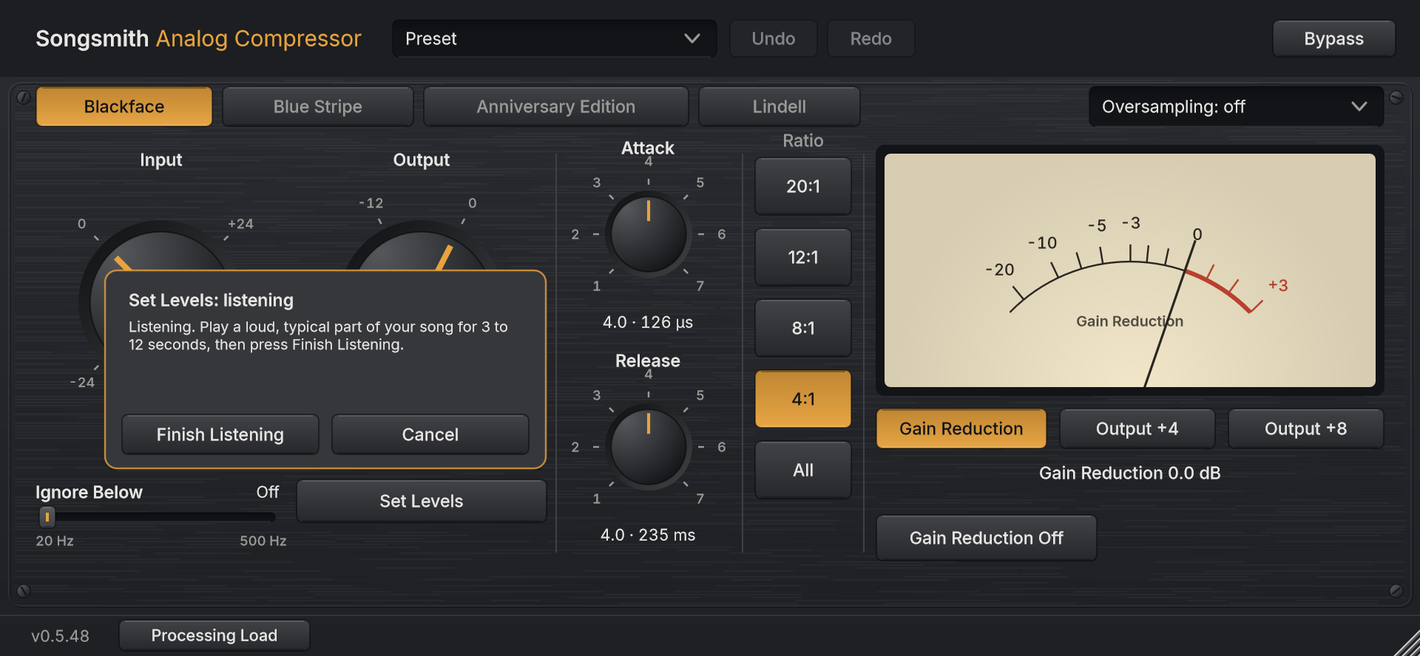
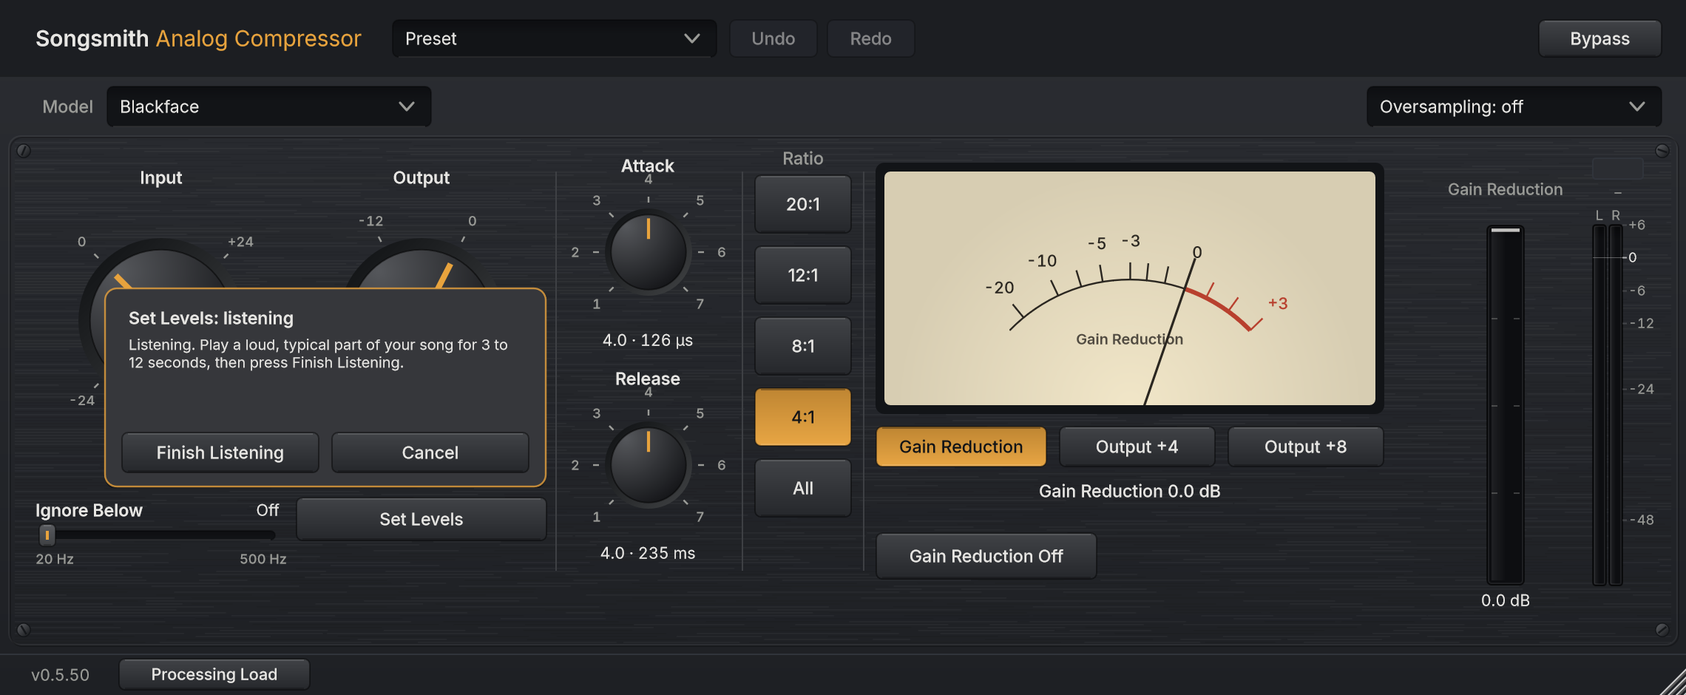
ACOMP-23: Model dropdown in a configuration row outside the panel; Slow Attack clear of the lower border (#325)

diff --git a/analog-compressor/Source/PluginEditor.cpp b/analog-compressor/Source/PluginEditor.cpp
@@ -35,7 +35,7 @@ namespace
     // Layout, in design units (FET::designWidth x FET::designHeight).
     // Input and Output are 216 high so Ignore Below fits under Input (ACOMP-19); the knobs keep their size,
     // because they were limited by the width, not the height.
-    // ACOMP-21: everything below the secondary row (model buttons and Oversampling) sits faceShift units lower.
+    // ACOMP-23: everything inside the panel (below the configuration row with the Model dropdown and Oversampling) sits faceShift units lower.
     constexpr int fs = FET::faceShift;
     const juce::Rectangle<int> inputArea   { 24, 64 + fs, 170, 216 };
     const juce::Rectangle<int> outputArea  { 200, 64 + fs, 170, 216 };
@@ -70,7 +70,7 @@ namespace
     // Built once; the same grain every time.
     struct Grain : Songsmith::UI::BrushedGrain
     {
-        Grain() : BrushedGrain (juce::Rectangle<float>::leftTopRightBottom (10.0f, (float) Songsmith::UI::titleBarHeight + 2.0f,
+        Grain() : BrushedGrain (juce::Rectangle<float>::leftTopRightBottom (10.0f, (float) FET::plateTop + 2.0f,
                                                                          (float) designWidth - 10.0f, (float) contentHeight - 6.0f)) {}
     };
 
@@ -318,17 +318,25 @@ SongsmithAnalogCompressorEditor::SongsmithAnalogCompressorEditor (SongsmithAnalo
     slowAttackButton.onClick = [this] { slowAttackAttachment.setValueAsCompleteGesture (slowAttackOn ? 0.0f : 1.0f); };
     content.addChildComponent (slowAttackButton);
 
-    // ACOMP-21: the four models are a row of buttons under the title bar (as in Songsmith EQ). The selected one is
-    // lit; the names are understated. Each button has its own tooltip, so no description is painted on the faceplate.
+    // ACOMP-23: the four models are one dropdown in the configuration row under the title bar (as Songsmith EQ's
+    // Zero Latency / Linear Phase), outside the textured panel. The tooltip describes all four, so no description is painted
+    // on the faceplate. The box follows modelAttachment (presets, automation, sessions); onChange is only the musician.
     for (int i = 0; i < numModels; ++i)
+        modelBox.addItem (modelNames()[i], i + 1);
+    modelBox.setTitle ("Model");
+    modelBox.onChange = [this]
     {
-        auto b = std::make_unique<juce::TextButton> (modelNames()[i]);
-        b->setTitle ("Model " + modelNames()[i]);
-        b->setColour (juce::TextButton::textColourOffId, Colours::textDim);
-        b->onClick = [this, i] { modelChosenByUser (i); };
-        content.addAndMakeVisible (*b);
-        modelButtons[(size_t) i] = std::move (b);
-    }
+        const int i = modelBox.getSelectedItemIndex();
+        if (i >= 0 && i != modelShown)
+            modelChosenByUser (i);
+    };
+    content.addAndMakeVisible (modelBox);
+    modelLabel.setText ("Model", juce::dontSendNotification);
+    modelLabel.setFont (juce::Font (font (Type::heading, Weight::Medium)));
+    modelLabel.setColour (juce::Label::textColourId, Colours::textDim);
+    modelLabel.setJustificationType (juce::Justification::centredRight);
+    modelLabel.setInterceptsMouseClicks (false, false);
+    content.addAndMakeVisible (modelLabel);
 
     allButton.setTooltip (allButtonTip);
     allButton.onClick = [this] { allButtonsAttachment.setValueAsCompleteGesture (allButtonsOn ? 0.0f : 1.0f); };
@@ -558,19 +566,13 @@ void SongsmithAnalogCompressorEditor::layoutContent()
     allButton.setBounds (col.removeFromTop (allHeight));
     col.removeFromTop (4);
     slowAttackButton.setBounds (slowAttackArea);
-    // ACOMP-21: the secondary row. Model buttons from the left; Oversampling (below) at the right.
-    {
-        int x = modelButtonX;
-        for (int i = 0; i < numModels; ++i)
-        {
-            modelButtons[(size_t) i]->setBounds (x, modeRowY, modelButtonWidths[i], modeRowHeight);
-            x += modelButtonWidths[i] + modelButtonGap;
-        }
-    }
+    // ACOMP-23: the configuration row. The Model dropdown from the left; Oversampling (below) at the right.
+    modelLabel.setBounds (modelLabelX, modeRowY, modelLabelWidth, modeRowHeight);
+    modelBox.setBounds (modelBoxX, modeRowY, modelBoxWidth, modeRowHeight);
     legacyRatioLabel.setBounds (ratioArea.getX(), ratioArea.getBottom() + 2, ratioArea.getWidth(), 18);   // only shown for a saved 2:1
 
     meter.setBounds (meterArea);
-    meterColumn.setBounds (Songsmith::UI::MeterColumn::boundsFor (designWidth, (int) Songsmith::UI::titleBarHeight + 8, contentHeight - 12, true));
+    meterColumn.setBounds (Songsmith::UI::MeterColumn::boundsFor (designWidth, FET::plateTop + 14, contentHeight - 26, true));
     auto modes = meterModes;
     const int gainReductionWidth = 116, modeGap = 8;
     meterButtons[0].setBounds (modes.removeFromLeft (gainReductionWidth));
@@ -622,8 +624,9 @@ void SongsmithAnalogCompressorEditor::paintContent (juce::Graphics& g)
         static const Grain grain;
         grain.draw (g);
 
-        const auto plate = juce::Rectangle<float> (6.0f, (float) Songsmith::UI::titleBarHeight + 4.0f, (float) designWidth - 12.0f,
-                                                   (float) contentHeight - (float) Songsmith::UI::titleBarHeight - 10.0f);
+        // ACOMP-23: the textured panel begins below the configuration row.
+        const auto plate = juce::Rectangle<float> (6.0f, (float) FET::plateTop, (float) designWidth - 12.0f,
+                                                   (float) contentHeight - (float) FET::plateTop - 6.0f);
         g.setColour (juce::Colours::white.withAlpha (0.06f));
         g.drawRoundedRectangle (plate, 8.0f, 1.0f);
         g.setColour (juce::Colours::black.withAlpha (0.25f));
@@ -711,12 +714,13 @@ juce::String SongsmithAnalogCompressorEditor::oversamplingText (int index)
 void SongsmithAnalogCompressorEditor::refreshModel()
 {
     const auto& v = voicingFor (modelShown);
-    // ACOMP-21: every model button keeps its own tooltip (selected or not); nothing is painted on the faceplate.
+    // ACOMP-23: the dropdown shows the model in use and its tooltip describes all four; nothing is painted on the faceplate.
+    juce::String tip = "Model: the character of the compressor. Changing it keeps your settings where they make sense.";
     for (int i = 0; i < numModels; ++i)
-    {
-        modelButtons[(size_t) i]->setTooltip (modelNames()[i] + ": " + modelDescriptions()[i]);
-        modelButtons[(size_t) i]->setToggleState (i == modelShown, juce::dontSendNotification);
-    }
+        tip << "\n" << modelNames()[i] << ": " << modelDescriptions()[i];
+    modelBox.setTooltip (tip);
+    if (modelBox.getSelectedItemIndex() != modelShown)
+        modelBox.setSelectedItemIndex (modelShown, juce::dontSendNotification);
     gentleButton.setVisible (v.hasGentleRatio);
     slowAttackButton.setVisible (v.hasSlowAttack);
     layoutContent();
@@ -869,7 +873,7 @@ void SongsmithAnalogCompressorEditor::layoutLevelsPanel()
     const auto entry = juce::Rectangle<int> (setLevelsX, setLevelsY, setLevelsWidth, setLevelsHeight);
     juce::Rectangle<int> panel (0, 0, levelsPanelWidth, levelsPanelHeight);
     panel.setPosition (entry.getRight() - levelsPanelWidth, entry.getY() - levelsPanelGap - levelsPanelHeight);
-    const int top = (int) Songsmith::UI::titleBarHeight + 2;
+    const int top = FET::plateTop + 2;
     panel = panel.constrainedWithin (juce::Rectangle<int> (6, top, designWidth - 12, contentHeight - top - 4));
     levelsPanel.setBounds (panel);
 

diff --git a/analog-compressor/Tests/ModelTests.h b/analog-compressor/Tests/ModelTests.h
@@ -296,31 +296,58 @@ struct ModelTests final : juce::UnitTest
             expect (ed != nullptr);
             if (ed == nullptr)
                 return;
-            // ACOMP-21: four buttons in one row under the title bar, each with its own tooltip.
+            // ACOMP-23: one Model dropdown (not four buttons) in the configuration row, outside the textured panel.
+            auto& box = ed->getModelBox();
+            expectEquals (box.getNumItems(), 4, "one dropdown lists the four models");
             for (int i = 0; i < 4; ++i)
-            {
-                auto& b = ed->getModelButton (i);
-                expectEquals (b.getButtonText(), FET::modelNames()[i]);
-                expect (b.findColour (juce::TextButton::textColourOffId) == Songsmith::UI::Colours::textDim, "the names are quiet: dimmer text");
-                expect (b.getHeight() >= 26, "and still an easy click target");
-                expect (b.isVisible());
-                expect (b.getTitle().contains (FET::modelNames()[i]), "accessible name");
-                expect (b.getTooltip().startsWith (FET::modelNames()[i]) && b.getTooltip().contains (FET::modelDescriptions()[i]),
-                        "each model button has its own tooltip, selected or not: " + b.getTooltip());
-                expect (Songsmith::UI::Wording::findBanned (b.getTooltip()).isEmpty(), "plain words: " + b.getTooltip());
-                if (i > 0)
-                {
-                    expectEquals (b.getY(), ed->getModelButton (0).getY(), "one row");
-                    expect (b.getX() > ed->getModelButton (i - 1).getRight(), "left to right, not overlapping");
-                }
-            }
-            expect (ed->getModelButton (0).getToggleState() && ! ed->getModelButton (1).getToggleState(), "Blackface is the default and lit");
-            expect (ed->getModelButton (3).getRight() < ed->getOversamplingBox().getX(), "Oversampling is to the right of the model buttons");
-            expect (ed->getModelButton (3).getBottom() <= ed->getMeter().getY(), "the row is above the meter, not among the controls");
-            ed->getModelButton (3).onClick();
-            expectEquals (ed->getShownModel(), 3);
-            expect (ed->getModelButton (3).getToggleState() && ! ed->getModelButton (0).getToggleState(), "the chosen model is lit");
-            expect (! ed->getModelButton (0).getTooltip().isEmpty(), "an unselected model keeps its tooltip");
+                expectEquals (box.getItemText (i), FET::modelNames()[i]);
+            expect (box.isVisible() && box.getHeight() >= 26, "visible, and an easy click target");
+            expect (box.getTitle() == "Model", "accessible name");
+            expect (ed->getModelLabel().getText() == "Model" && ed->getModelLabel().getRight() <= box.getX(), "captioned Model, to its left");
+            for (int i = 0; i < 4; ++i)
+                expect (box.getTooltip().contains (FET::modelNames()[i] + ": " + FET::modelDescriptions()[i]), "the tooltip describes every model: " + box.getTooltip());
+            expect (Songsmith::UI::Wording::findBanned (box.getTooltip()).isEmpty(), "plain words: " + box.getTooltip());
+            expectEquals (box.getSelectedItemIndex(), 0, "Blackface is the default and shown");
+
+            // The row is directly under the title bar and above the textured panel, with Oversampling level with it on the right.
+            expect (box.getY() >= (int) Songsmith::UI::titleBarHeight, "below the title bar");
+            expect (box.getBottom() < FET::plateTop, "outside the textured panel: the panel starts below the row");
+            const auto os = ed->getOversamplingBox().getBounds();
+            expectEquals (os.getY(), box.getY(), "Oversampling is level with it");
+            expect (os.getBottom() < FET::plateTop, "and outside the panel too");
+            expect (box.getRight() < os.getX(), "to its right");
+            expectEquals (os.getRight(), ed->getMeterColumn().getRight(), "right-aligned with the meter column");
+            expect (box.getBottom() <= ed->getMeter().getY(), "nothing of the row is among the controls");
+
+            box.setSelectedItemIndex (3, juce::sendNotificationSync);
+            expectEquals (ed->getShownModel(), 3, "choosing from the dropdown selects the model");
+            expectEquals (box.getSelectedItemIndex(), 3);
+            expect (p.apvts.getRawParameterValue (ID::model)->load() == 3.0f, "and writes the model parameter");
+            auto* modelParam = p.apvts.getParameter (ID::model);
+            modelParam->setValueNotifyingHost (modelParam->convertTo0to1 (1.0f));
+            expectEquals (box.getSelectedItemIndex(), 1, "automation, presets and sessions update the dropdown");
+        }
+
+        beginTest ("ACOMP-23: Slow Attack is centred under Attack and Release and clears the lower border");
+        {
+            SongsmithAnalogCompressorProcessor p;
+            auto* modelParam = p.apvts.getParameter (ID::model);
+            modelParam->setValueNotifyingHost (modelParam->convertTo0to1 ((float) FET::Model::anniversary));
+            std::unique_ptr<juce::AudioProcessorEditor> base (p.createEditor());
+            auto* ed = dynamic_cast<SongsmithAnalogCompressorEditor*> (base.get());
+            expect (ed != nullptr);
+            if (ed == nullptr)
+                return;
+            auto& slow = ed->getSlowAttackButton();
+            expect (slow.isVisible(), "Anniversary Edition has Slow Attack");
+            const auto attack = ed->getKnob (ID::attack).getBounds(), release = ed->getKnob (ID::release).getBounds();
+            expect (std::abs (slow.getBounds().getCentreX() - attack.getCentreX()) <= 1 && std::abs (slow.getBounds().getCentreX() - release.getCentreX()) <= 1,
+                    "centred beneath Attack and Release");
+            expect (slow.getY() >= release.getBottom(), "below Release, not on it");
+            // The panel's lower border and its pinstripes (11 and 7 units above the bottom edge) stay clear, with room to spare.
+            const int plateBottom = FET::contentHeight - 6;
+            expect (slow.getBottom() <= plateBottom - 11 - 8, "at least 8 units of clear space above the lower pinstripes: bottom "
+                    + juce::String (slow.getBottom()) + " plate bottom " + juce::String (plateBottom));
         }
 
         beginTest ("ACOMP-20: each model has its own faceplate colour, and it follows automation, presets and restored sessions");
@@ -402,7 +429,7 @@ struct ModelTests final : juce::UnitTest
             };
             expectGreaterThan (loudRms (true), loudRms (false) * 1.05, "2:1 turns the sound down less than 4:1 on Lindell");
 
-            ed->getModelButton (0).onClick();   // by hand to Blackface
+            ed->getModelBox().setSelectedItemIndex (0, juce::sendNotificationSync);   // by hand to Blackface
             expect (! p.isGentleRatioOn(), "leaving Lindell by hand turns 2:1 off, so no ratio is falsely shown");
             expect (! ed->getGentleRatioButton().isVisible(), "and the button goes");
         }

diff --git a/analog-compressor/Source/FETParams.h b/analog-compressor/Source/FETParams.h
@@ -181,13 +181,15 @@ namespace FET
     // Interface sizes (editor menu). The editor is drawn in design units and scaled as a whole,
     // so every option is equally sharp.
     inline constexpr float uiScales[] = { 1.0f, 1.25f, 1.5f, 1.75f, 2.0f };
-    inline constexpr int designWidth = 1140, contentHeight = 416;   // 960 for the controls plus the right-hand meter column (SUI-23); they sit in the top 416
+    inline constexpr int designWidth = 1140, contentHeight = 442;   // 960 for the controls plus the right-hand meter column (SUI-23); they sit in the top 442 (ACOMP-23: 26 more, so the labels clear the top pinstripes and Slow Attack and the meter numbers clear the lower border)
 
-    // ACOMP-21: a secondary row under the title bar, as in Songsmith EQ. The four model buttons are at the left and
-    // Oversampling is at the right, right-aligned with the meter. Everything else sits faceShift units lower than before.
-    inline constexpr int modeRowY = 58, modeRowHeight = 28, faceShift = 34;
-    inline constexpr int modelButtonX = 24, modelButtonGap = 6;
-    inline constexpr int modelButtonWidths[4] = { 120, 130, 180, 110 };   // Blackface, Blue Stripe, Anniversary Edition, Lindell
+    // ACOMP-23: a configuration row directly under the title bar, as in Songsmith EQ, OUTSIDE the textured panel. The Model
+    // dropdown is at the left (with its caption) and Oversampling at the right, right-aligned with the meter column. The panel
+    // (the faceplate) begins below the row at plateTop, and everything in it sits faceShift units lower than it used to.
+    inline constexpr int modeRowY = 58, modeRowHeight = 28, plateTop = modeRowY + modeRowHeight + 6, faceShift = plateTop - 56 + 10;   // 10: clear of the panel's top pinstripes
+    inline constexpr int configMargin = 16;
+    inline constexpr int modelLabelX = configMargin, modelLabelWidth = 52;
+    inline constexpr int modelBoxX = modelLabelX + modelLabelWidth + 4, modelBoxWidth = 220;
 
     // ACOMP-19: the Ignore Below slider (the detector low cut, ACOMP-07/12/16) sits directly under the Input knob,
     // left-aligned with it and as wide as it.
@@ -199,7 +201,8 @@ namespace FET
     inline constexpr int levelsPanelWidth = 300, levelsPanelHeight = 136, levelsPanelGap = 6;
 
     // ACOMP-21 (replaces ACOMP-19's lower-right place): Oversampling is on the right of the secondary row.
-    inline constexpr int oversamplingX = 736, oversamplingY = modeRowY, oversamplingWidth = 200, oversamplingHeight = modeRowHeight;
+    inline constexpr int oversamplingWidth = 200, oversamplingHeight = modeRowHeight, oversamplingY = modeRowY;
+    inline constexpr int oversamplingX = designWidth - configMargin - oversamplingWidth;   // ACOMP-23: right-aligned with the meter column
     inline constexpr int footerHeight = 28;                         // the latency and Processing Load strip below them
     inline constexpr int designHeight = contentHeight + footerHeight;
 

diff --git a/analog-compressor/Tests/AnalogCompressorTests.cpp b/analog-compressor/Tests/AnalogCompressorTests.cpp
@@ -522,19 +522,19 @@ struct EditorTests final : juce::UnitTest
         {
             expect (ac->getOversamplingBox().getBottom() > 50, "Oversampling sits with the processing controls, below the title bar");
             {
-                // ACOMP-21 (supersedes ACOMP-19): the right of the secondary row, level with the four model buttons.
+                // ACOMP-23 (supersedes ACOMP-21): the right of the configuration row, level with the Model dropdown, outside the panel.
                 auto& os = ac->getOversamplingBox();
                 auto& inputKnob = ac->getKnob (ID::input);
                 const auto meterBounds = ac->getMeter().getBounds();
                 expect (os.getX() > meterBounds.getX(), "Oversampling is on the right-hand side");
-                expect (os.getBottom() <= meterBounds.getY(), "Oversampling is in the secondary row, above the meter");
+                expect (os.getBottom() <= meterBounds.getY(), "Oversampling is in the configuration row, above the meter");
+                expect (os.getBottom() < FET::plateTop, "outside the textured panel");
                 expect (os.getY() >= (int) Songsmith::UI::titleBarHeight, "and below the title bar");
-                expectEquals (os.getRight(), meterBounds.getRight(), "right-aligned with the meter");
-                for (int m = 0; m < 4; ++m)
+                expectEquals (os.getRight(), ac->getMeterColumn().getRight(), "right-aligned with the meter column");
                 {
-                    auto& mb = ac->getModelButton (m);
-                    expectEquals (mb.getY(), os.getY(), "level with the model buttons");
-                    expect (mb.getRight() < os.getX(), "the model buttons are to its left");
+                    auto& mb = ac->getModelBox();
+                    expectEquals (mb.getY(), os.getY(), "level with the Model dropdown");
+                    expect (mb.getRight() < os.getX(), "the Model dropdown is to its left");
                 }
                 expect (! os.getBounds().intersects (meterBounds), "Oversampling does not overlap the meter");
                 expect (! os.getBounds().intersects (ac->getGrOffBounds()), "nor Gain Reduction Off");

diff --git a/analog-compressor/Source/PluginEditor.h b/analog-compressor/Source/PluginEditor.h
@@ -100,9 +100,10 @@ public:
     juce::Rectangle<int> getDiagnosticsBounds() const { return diagnostics->getBounds(); }
     juce::ComboBox& getPresetBox() { return presetBox; }
 
-    // ACOMP-21: the four model buttons in the secondary row (each with its own tooltip), and the two buttons
+    // ACOMP-23: the Model dropdown in the configuration row (outside the panel), and the two buttons
     // only some models have (for tests).
-    juce::Button& getModelButton (int index) { return *modelButtons[(size_t) index]; }
+    juce::ComboBox& getModelBox() noexcept { return modelBox; }
+    juce::Label& getModelLabel() noexcept { return modelLabel; }
     juce::Button& getGentleRatioButton() noexcept { return gentleButton; }
     juce::Button& getSlowAttackButton() noexcept { return slowAttackButton; }
     int getShownModel() const noexcept { return modelShown; }
@@ -200,7 +201,8 @@ private:
     // being mistaken for a choice by the musician); onChange is therefore only the musician choosing a model.
     void refreshModel();
     void modelChosenByUser (int model);
-    std::array<std::unique_ptr<juce::TextButton>, 4> modelButtons;   // Blackface, Blue Stripe, Anniversary Edition, Lindell
+    juce::ComboBox modelBox;      // Blackface, Blue Stripe, Anniversary Edition, Lindell (ACOMP-23)
+    juce::Label modelLabel;       // "Model", its caption in the configuration row
     juce::TextButton gentleButton { "2:1" }, slowAttackButton { "Slow Attack" };
     juce::ParameterAttachment modelAttachment, slowAttackAttachment;
     int modelShown = FET::modelDefault;

diff --git a/analog-compressor/README.md b/analog-compressor/README.md
@@ -16,8 +16,8 @@ A feedback FET compressor inspired by the Rev D blackface 1176LN, by Songsmith S
 - **No 2:1 button:** gentle compression now belongs to Songsmith Compressor, so this plugin offers the four 1176 ratios and All; the default is still 4:1. Older sessions, presets and host automation that used the gentle 2:1 ratio still sound exactly as saved, and the editor shows a small "Saved 2:1" note until you press a ratio. Details: [docs/two-to-one-ratio.md](docs/two-to-one-ratio.md).
 - **All** (the All Buttons function): all four ratios pressed in, with its own curve, attack lag on transients and extra distortion. See [docs/all-buttons.md](docs/all-buttons.md).
 - **Analogue colour:** FET gain-cell distortion while compressing, plus the Class A output amplifier and transformer. **Gain Reduction Off** keeps the colour without compressing. Calibrated to the published specs: [docs/colour.md](docs/colour.md).
-- **Models in a row** (a secondary row under the title bar, as in Songsmith EQ): Blackface, Blue Stripe, Anniversary Edition and Lindell are four buttons, with the selected one lit. There is no description text on the faceplate; hover over each button for a short, plain description of its character. Ignore Below stays under Input.
-- **Oversampling** (right of the same secondary row, above the meter): Off / 2x / 4x (default Off, so a new instance adds no delay and uses the least processing power; turn it up for a cleaner top end when compressing hard). Sessions saved earlier keep their setting. The latency is reported to the host, and the bypass stays aligned. If you switch Processing Load on (far left of the strip along the bottom of the editor), the readout beside it shows this instance's CPU use and that latency in milliseconds and samples.
+- **Model dropdown** (a configuration row directly under the title bar, outside the textured panel, as in Songsmith EQ): choose Blackface, Blue Stripe, Anniversary Edition or Lindell from one dropdown; the one in use is shown. There is no description text on the faceplate; hover over the dropdown for a short, plain description of all four. Ignore Below stays under Input. Anniversary Edition's Slow Attack button sits centred under Attack and Release, clear of the panel's lower edge.
+- **Oversampling** (right of the same configuration row, outside the panel and right-aligned with the meter column): Off / 2x / 4x (default Off, so a new instance adds no delay and uses the least processing power; turn it up for a cleaner top end when compressing hard). Sessions saved earlier keep their setting. The latency is reported to the host, and the bypass stays aligned. If you switch Processing Load on (far left of the strip along the bottom of the editor), the readout beside it shows this instance's CPU use and that latency in milliseconds and samples.
 - **Far-right meters** (SUI-23, the same on every Songsmith plugin): a tall **Gain Reduction** bar and the **Output** meter (left and right channels, clip warning, held peak; sample peak after Output and Bypass, not true peak). The bar shows no reduction while Bypass is on.
 - **Needle meter** (about 45 % larger than before, with bigger scale numbers): Gain Reduction, Output +4 and Output +8 modes (0 on the scale at +4 or +8 dBu) with VU ballistics, plus a numeric gain reduction readout.
 - **Scalable vector editor:** drag the bottom-right corner to resize it from 100 % to 200 % (a 75 % minimum is planned in [ACOMP-17](https://github.com/tonygward/audio-plugins/issues/255)), sharp on any display, on a fine brushed faceplate drawn as vectors. The ratio buttons read 20:1, 12:1, 8:1 and 4:1, then All, each with a plain tooltip. See [docs/editor.md](docs/editor.md).
@@ -99,3 +99,10 @@ To build and test the installers:
 | Before | After |
 |---|---|
 | ![before](docs/images/sui-23-before.png) | ![after](docs/images/sui-23-after.png) |
+
+
+**ACOMP-23, the Model dropdown and configuration row** (real screenshots at 200 %, rendered by the test executable). Before (0.5.50, four model buttons inside the panel) and after:
+
+| Before | After (Blackface) | After (Anniversary Edition, with Slow Attack) |
+|---|---|---|
+| ![before](docs/images/sui-23-after.png) | ![after](docs/images/acomp-23-blackface.png) | ![after](docs/images/acomp-23-anniversary-edition.png) |

diff --git a/CHANGELOG.md b/CHANGELOG.md
@@ -2,6 +2,10 @@
 
 Every Songsmith plugin, installer and release shares one version number, kept in the `VERSION` file. Each version has one release on the [Releases page](https://github.com/tonygward/audio-plugins/releases), tagged `vX.Y.Z`. Releases from before one shared version keep the tags they had (`v0.2.0` to `v0.4.0`, `compressor-v0.1.0`, `maximizer-v0.1.0`, `studio-v1.0.0`), and the plugin changelogs ([Songsmith EQ](eq/CHANGELOG.md), [Songsmith Maximiser](maximiser/CHANGELOG.md)) hold their earlier entries. Versions 1.1.0 to 1.3.8 came first: the suite was then renumbered to 0.5.0, which is why the numbers below 0.5.0 are higher.
 
+## Unreleased
+
+- Songsmith Analog Compressor: the four models (Blackface, Blue Stripe, Anniversary Edition and Lindell) are now chosen from one Model dropdown, in a row of their own directly under the title bar, outside the textured panel, with Oversampling at the right of the same row, as in Songsmith EQ. The model in use is shown in the dropdown; hover over it to read what each model is good for. The Slow Attack button on Anniversary Edition now sits centred under Attack and Release with clear space above the panel's lower edge, and the panel's decorative lines no longer cross any label. The window is a little taller. The sound, saved settings, presets and automation are unchanged, and you do not need to do anything.
+
 ## 0.5.50
 
 - Every Songsmith plugin now has the level meter at the far right of its window, laid out like the Songsmith Compressor's. Songsmith Optical Leveller, Songsmith Bus Compressor and Songsmith Analog Compressor gain a tall Gain Reduction bar and an Output meter (left and right channels, a clip warning and the highest recent level) at the far right, and their windows are a little wider to make room. Songsmith Maximiser's Gain Reduction and Output meters have moved to the far right to match, and Songsmith Passive EQ's meter now sits at the same distance from the edge. Their older needle and lamp meters stay as they were. The Output meter shows sample peak, not true peak. The Analog Compressor's bar shows no reduction while Bypass is on. The sound, presets and saved settings are unchanged, and you do not need to do anything.

diff --git a/analog-compressor/docs/models.md b/analog-compressor/docs/models.md
@@ -69,4 +69,4 @@ The model shows mainly through the faceplate colour, drawn under the same brushe
 | Anniversary Edition | a deeper navy blue with white pinstripes at the top and bottom, so it reads as blue and white and differs from Blue Stripe |
 | Lindell | a lighter neutral grey with fine vertical lines |
 
-These are original designs, not copies of any faceplate. The model selector's text is dimmer and its outline lighter, but it keeps its full click size (it must stay at least 26 design units tall). The display names were shortened: Blackface (was "Blackface · Original Songsmith"), Anniversary Edition (was "1176AE · Anniversary Edition") and Lindell (was "Lindell-inspired"); the saved IDs and indexes are unchanged. The Lindell reference is still unconfirmed, as noted above. Screenshots: `docs/images/acomp-20-*.png`. Tests: `Models` in `ModelTests.h`.
+These are original designs, not copies of any faceplate. The model is chosen from one Model dropdown in the configuration row under the title bar, outside the textured panel (ACOMP-23; it keeps its full click size, at least 26 design units tall). The display names were shortened: Blackface (was "Blackface · Original Songsmith"), Anniversary Edition (was "1176AE · Anniversary Edition") and Lindell (was "Lindell-inspired"); the saved IDs and indexes are unchanged. The Lindell reference is still unconfirmed, as noted above. Screenshots: `docs/images/acomp-20-*.png`. Tests: `Models` in `ModelTests.h`.
